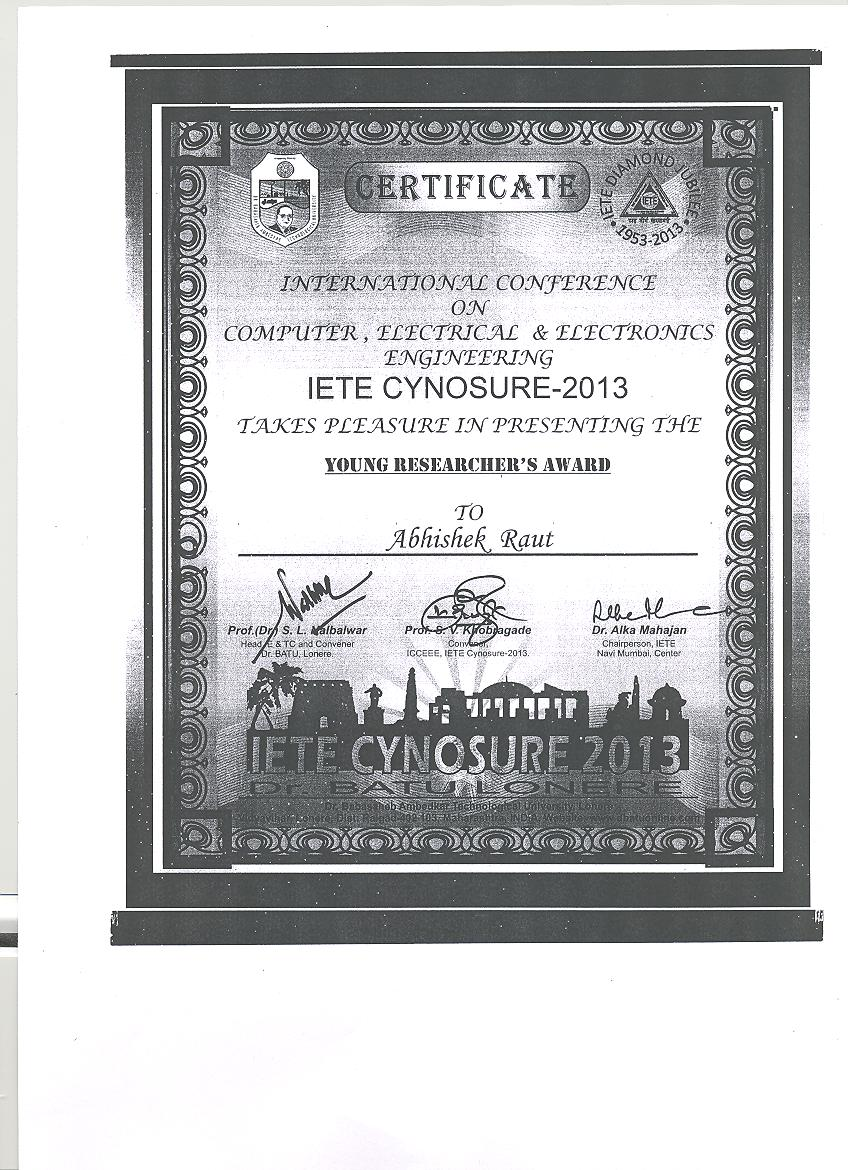
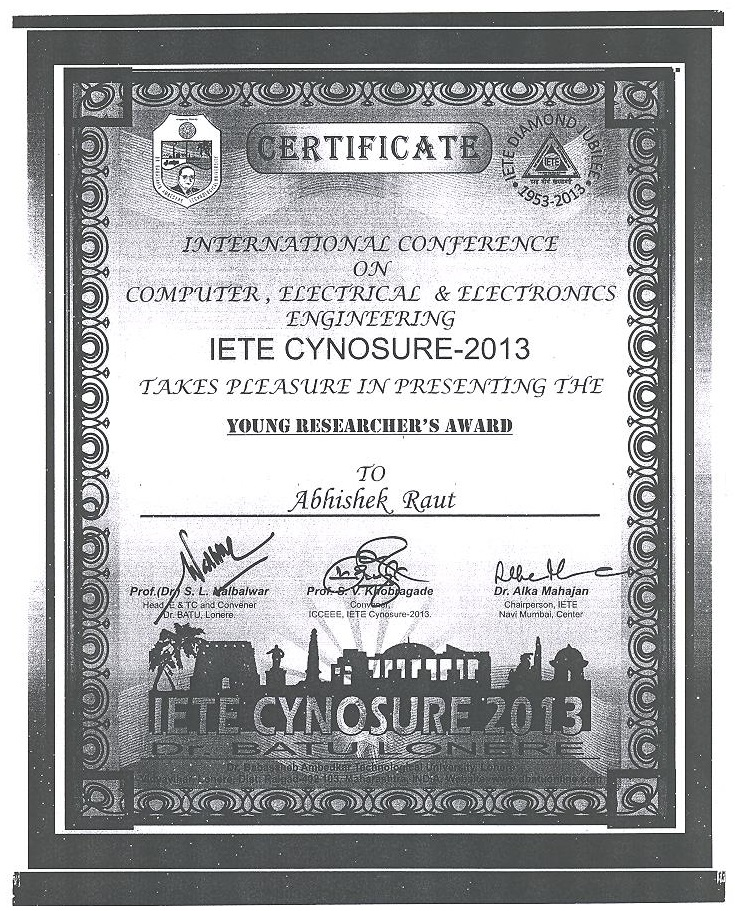
up

diff --git a/projects.html b/projects.html
@@ -166,7 +166,7 @@
                         Centre’s Young Researchers Award (selected from 110 national and international researchers)
                     </h4>
                     <h4><a target="_blank" href="/media/docs/cynosure.pdf">Research Paper |</a>
-                        <a target="_blank" href="/media/docs/cynosure.pdf">Award</a>
+                        <a target="_blank" href="/media/docs/award.jpg">Award</a>
                     </h4>
                 </td>
             </tr>
